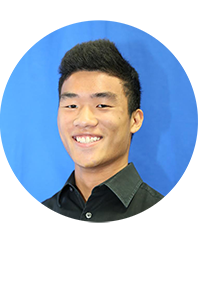
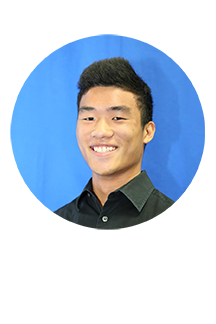
Try again

Changed region(s): [[0.0, 0.0606, 1.0, 0.7576]]

diff --git a/index.html b/index.html
@@ -56,7 +56,7 @@
 	    <div class="container">
 			<div class="row">
 				<div class="col-lg-8 col-lg-offset-2 centered">
-					<img src="assets/img/chester_circular_small.png">
+					<img src="assets/img/chester_circular.jpg">
 					<h1>Hi, I'm Chester!</h1>
 					<p>Thanks for visiting my website! I'm a first year at UC Berkeley, double majoring in computer science and statistics. I'm super passionate about taking on challenges, building team projects, and creatively solving problems. </p>
 									
